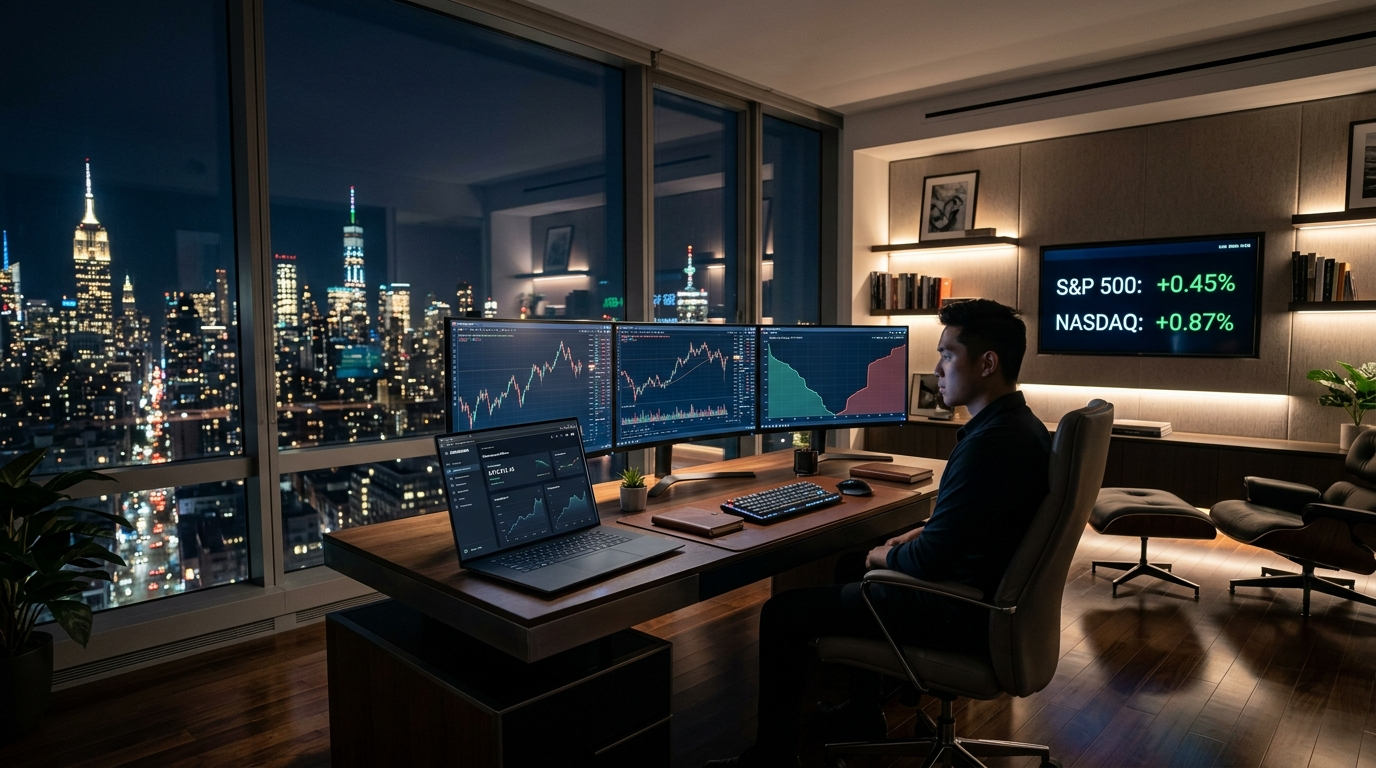
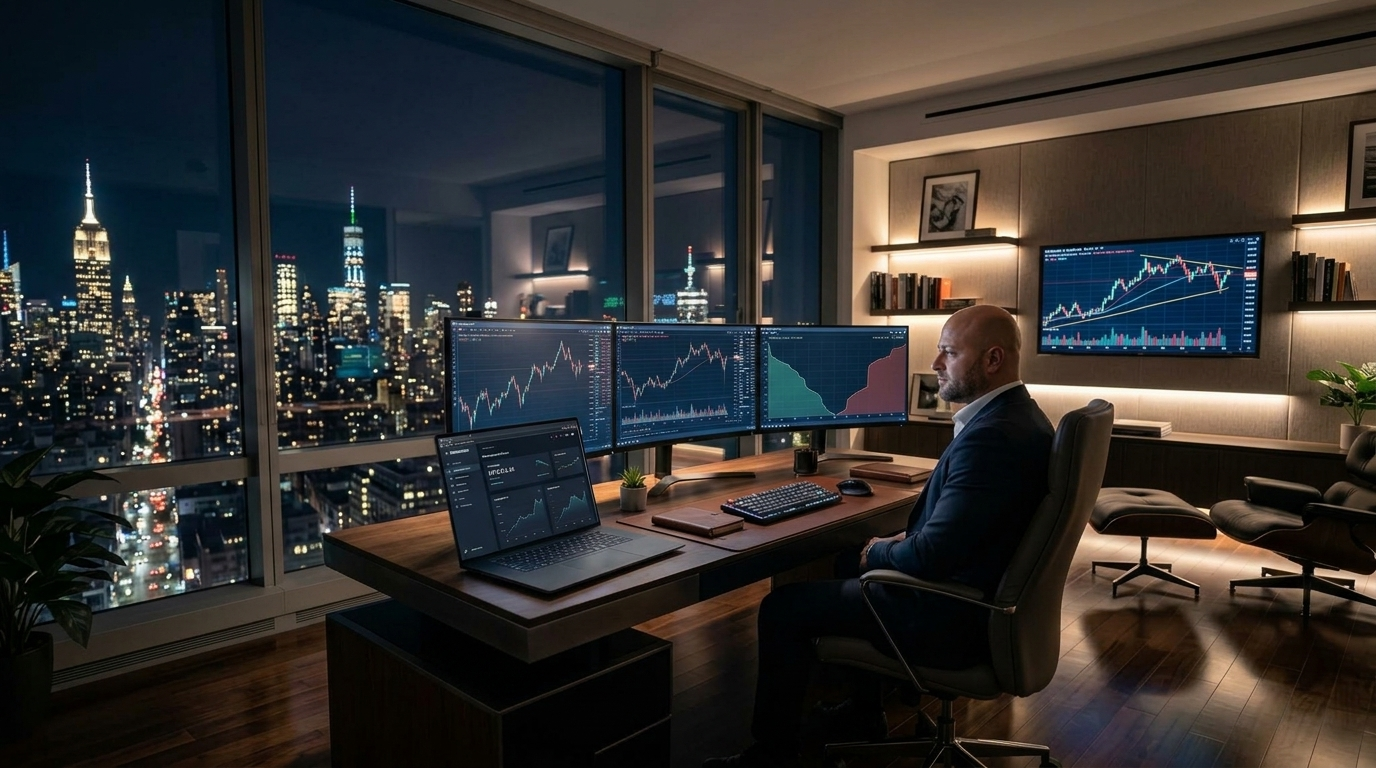
feat(lobby): update hero background image with Pete Currey, chart display, and left-aligned hero content

diff --git a/src/components/lobby/LobbyHero.tsx b/src/components/lobby/LobbyHero.tsx
@@ -33,22 +33,21 @@ export function LobbyHero({ leadStory }: LobbyHeroProps) {
       <div className="absolute inset-0 z-0">
         <Image
           src="/images/lobby/lobby-hero-penthouse.jpg"
-          alt="Modern penthouse trading office overlooking New York City skyline at night"
+          alt="Modern penthouse trading office overlooking city skyline at night with Pete Currey at trading desk"
           fill
           priority
           quality={95}
-          className="object-cover object-center transform scale-[1.02] transition-transform duration-1000 ease-out"
+          className="object-cover object-[65%_center] lg:object-center transform scale-[1.01] transition-transform duration-1000 ease-out"
           sizes="100vw"
         />
-        {/* Multilayered cinematic overlays for crisp readability */}
-        <div className="absolute inset-0 bg-gradient-to-t from-[#0B0E12] via-[#0B0E12]/60 to-[#0B0E12]/80" />
-        <div className="absolute inset-0 bg-gradient-to-r from-[#0B0E12]/90 via-[#0B0E12]/50 to-transparent" />
-        <div className="absolute inset-0 bg-[radial-gradient(ellipse_at_center,_var(--tw-gradient-stops))] from-transparent via-[#0B0E12]/30 to-[#0B0E12]/90" />
+        {/* Softened cinematic ambient overlays to reveal glowing city skyline lights */}
+        <div className="absolute inset-0 bg-gradient-to-t from-[#0B0E12] via-transparent to-black/40" />
+        <div className="absolute inset-0 bg-gradient-to-r from-[#0B0E12]/80 via-[#0B0E12]/30 to-transparent" />
       </div>
 
       {/* 2. Top Live Market Ticker Tape */}
       <div className="relative z-10 w-full border-b border-white/10 bg-black/40 backdrop-blur-sm overflow-hidden py-2">
-        <div className="max-w-[1320px] mx-auto px-4 sm:px-6 flex items-center justify-between gap-4">
+        <div className="max-w-[1440px] mx-auto px-4 sm:px-6 md:px-10 lg:px-16 flex items-center justify-between gap-4">
           <div className="flex items-center gap-2 shrink-0">
             <span className="relative flex h-2 w-2">
               <span className="animate-ping absolute inline-flex h-full w-full rounded-full bg-emerald-400 opacity-75"></span>
@@ -77,11 +76,11 @@ export function LobbyHero({ leadStory }: LobbyHeroProps) {
         </div>
       </div>
 
-      {/* 3. Hero Main Content */}
-      <div className="relative z-10 max-w-[1320px] mx-auto px-4 sm:px-6 py-12 sm:py-16 md:py-20 flex-1 flex flex-col justify-center">
-        <div className="max-w-3xl">
+      {/* 3. Hero Main Content - Offset to the left */}
+      <div className="relative z-10 w-full max-w-[1440px] px-6 sm:px-10 md:px-16 lg:px-20 py-12 sm:py-16 md:py-20 flex-1 flex flex-col justify-center items-start text-left">
+        <div className="max-w-2xl">
           {/* Status badge */}
-          <div className="inline-flex items-center gap-2.5 px-3 py-1.5 rounded-full bg-white/10 backdrop-blur-md border border-white/15 text-white/90 text-xs font-mono tracking-wider uppercase mb-6">
+          <div className="inline-flex items-center gap-2.5 px-3 py-1.5 rounded-full bg-black/40 backdrop-blur-md border border-white/15 text-white/90 text-xs font-mono tracking-wider uppercase mb-6 shadow-sm">
             <span className="w-2 h-2 rounded-full bg-[#B8752E] animate-pulse"></span>
             <span className="font-semibold text-[#E5A96A]">THE LOBBY</span>
             <span className="text-white/30">•</span>
@@ -93,11 +92,11 @@ export function LobbyHero({ leadStory }: LobbyHeroProps) {
             THE LOBBY
           </h1>
 
-          <p className="mt-4 text-xl sm:text-2xl md:text-3xl font-display font-semibold text-white/90 tracking-tight leading-snug">
+          <p className="mt-4 text-xl sm:text-2xl md:text-3xl font-display font-semibold text-white/90 tracking-tight leading-snug drop-shadow-md">
             Where institutional edge meets unfiltered industry surveillance.
           </p>
 
-          <p className="mt-4 text-sm sm:text-base md:text-lg text-white/70 max-w-2xl font-sans leading-relaxed">
+          <p className="mt-4 text-sm sm:text-base md:text-lg text-white/80 max-w-xl font-sans leading-relaxed drop-shadow">
             Broadsheet investigative reporting, verified broker audit trails, prop firm solvency surveillance, and quantitative market research. Zero marketing noise. Pure institutional signal.
           </p>
 
@@ -113,7 +112,7 @@ export function LobbyHero({ leadStory }: LobbyHeroProps) {
 
             <Link
               href="/wire"
-              className="flex items-center gap-2 px-5 py-3.5 rounded bg-white/10 hover:bg-white/15 backdrop-blur-md border border-white/20 text-white font-mono text-xs sm:text-sm uppercase tracking-wider transition-all"
+              className="flex items-center gap-2 px-5 py-3.5 rounded bg-black/40 hover:bg-white/15 backdrop-blur-md border border-white/20 text-white font-mono text-xs sm:text-sm uppercase tracking-wider transition-all"
             >
               <Radio className="w-4 h-4 text-[#B8752E]" />
               <span>The Wire Live</span>
@@ -121,7 +120,7 @@ export function LobbyHero({ leadStory }: LobbyHeroProps) {
 
             <Link
               href="/lobby/prop-firms"
-              className="hidden sm:flex items-center gap-2 px-5 py-3.5 rounded bg-transparent hover:bg-white/5 border border-white/10 text-white/80 hover:text-white font-mono text-xs sm:text-sm uppercase tracking-wider transition-all"
+              className="hidden sm:flex items-center gap-2 px-5 py-3.5 rounded bg-black/30 hover:bg-white/10 border border-white/15 text-white/80 hover:text-white font-mono text-xs sm:text-sm uppercase tracking-wider transition-all"
             >
               <ShieldAlert className="w-4 h-4 text-emerald-400" />
               <span>Prop Firm Watch</span>
